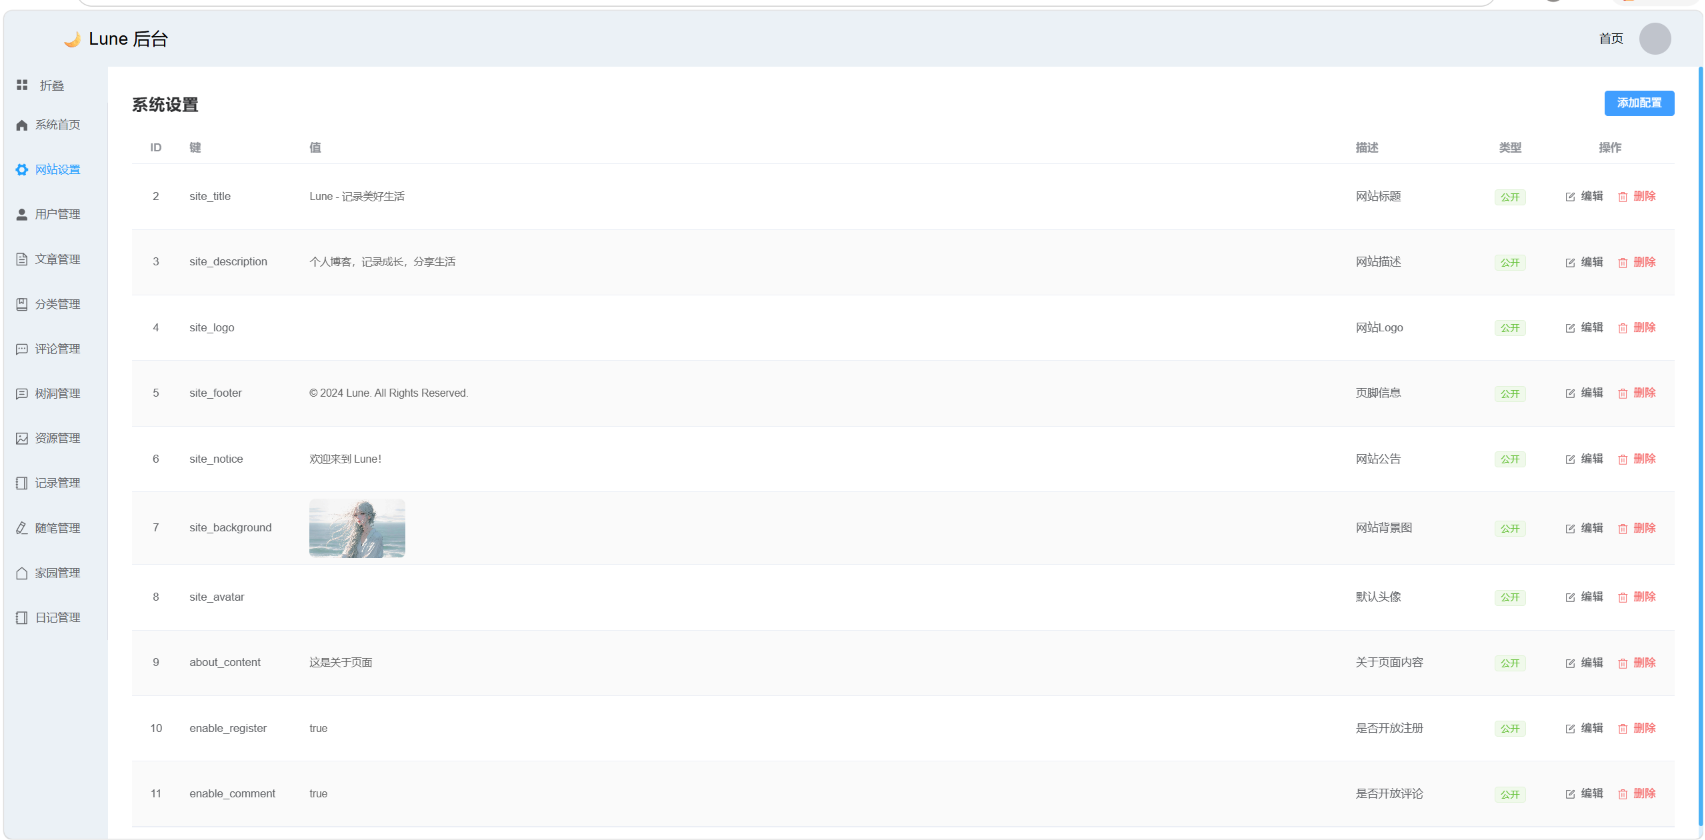
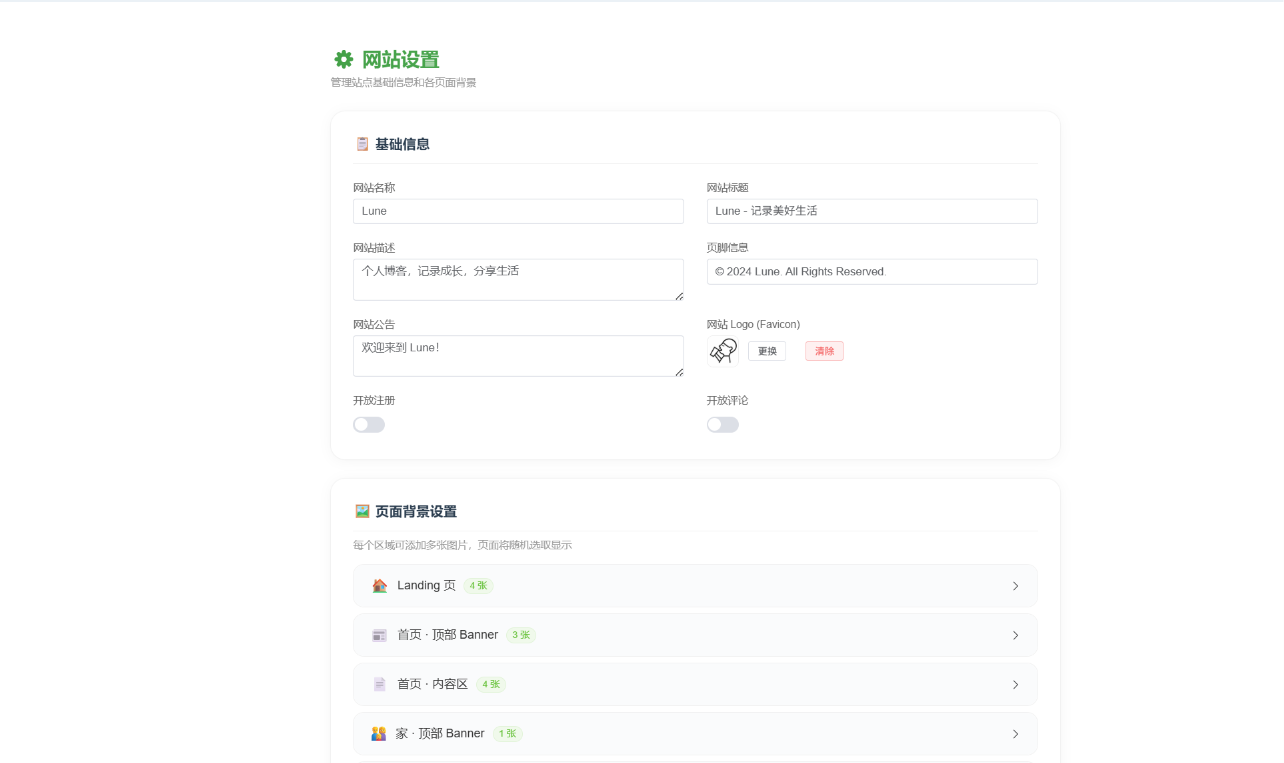
fix: 接入未生效页面背景图 + CSS 定位修复
- Family.vue: 添加 familyHero/familyContent 背景图支持
- TreeHole.vue: 添加 treeholeContent 时间线背景
- Essay.vue: 添加 essayContent 内容区背景
- Record.vue: 添加 recordContent 内容区背景
- 所有内容区添加 position:relative + .bg-image CSS

diff --git a/lune-ui/src/views/family/Family.vue b/lune-ui/src/views/family/Family.vue
@@ -5,6 +5,7 @@
 
     <!-- Hero Banner -->
     <div class="hero-section">
+      <div class="bg-image" :style="{ backgroundImage: `url(${familyHeroBg})` }" v-if="familyHeroBg" />
       <div class="hero-overlay" />
       <!-- Meteors -->
       <div class="meteors-container">
@@ -549,4 +550,8 @@ function formatFullDate(d) {
   15% { opacity: 0; }
   100% { opacity: 0; transform: rotate(-35deg) translateY(400px) translateX(-100px); }
 }
+.tab-content { position: relative; overflow: hidden; }
+/* bg-image overlay */
+.bg-image { position: absolute; inset: 0; background-size: cover; background-position: center; z-index: 0; }
+.content-bg { position: absolute; inset: 0; background-size: cover; background-position: center; z-index: 0; opacity: 0.15; }
 </style>

diff --git a/lune-ui/src/views/treehole/TreeHole.vue b/lune-ui/src/views/treehole/TreeHole.vue
@@ -49,6 +49,7 @@
     </div>
 
     <!-- ====== Timeline Section ====== -->
+    <div class="bg-image" :style="{ backgroundImage: `url(${timelineBg})` }" v-if="timelineBg" />
     <div class="timeline-section" ref="timelineRef">
       <div class="timeline-wrapper my-animation-hideToShow">
         <div class="tree-hole-container">
@@ -565,6 +566,7 @@ function formatDate(d) {
 
 /* ====== Timeline Section ====== */
 .timeline-section {
+  position: relative; overflow: hidden;
   min-height: 100vh;
 }
 

diff --git a/lune-ui/src/views/record/Record.vue b/lune-ui/src/views/record/Record.vue
@@ -31,6 +31,7 @@
 
     <!-- ====== Feed ====== -->
     <div class="feed-container">
+      <div class="bg-image content-bg" :style="{ backgroundImage: `url(${contentBg})` }" v-if="contentBg" />
       <div class="feed-list" v-if="recordList.length > 0">
         <div
           v-for="item in recordList"
@@ -525,4 +526,5 @@ function formatRelative(d) {
   .media-grid-8 .media-img,
   .media-grid-9 .media-img { height: 130px; }
 }
+.feed-list { position: relative; overflow: hidden; }
 </style>

diff --git a/lune-ui/src/views/essay/Essay.vue b/lune-ui/src/views/essay/Essay.vue
@@ -483,4 +483,5 @@ function formatRelative(d) {
   .moment-text { font-size: 15px; line-height: 1.85; }
   .add-fab { bottom: 24px; right: 14px; width: 48px; height: 48px; }
 }
+.moment-feed { position: relative; overflow: hidden; }
 </style>
